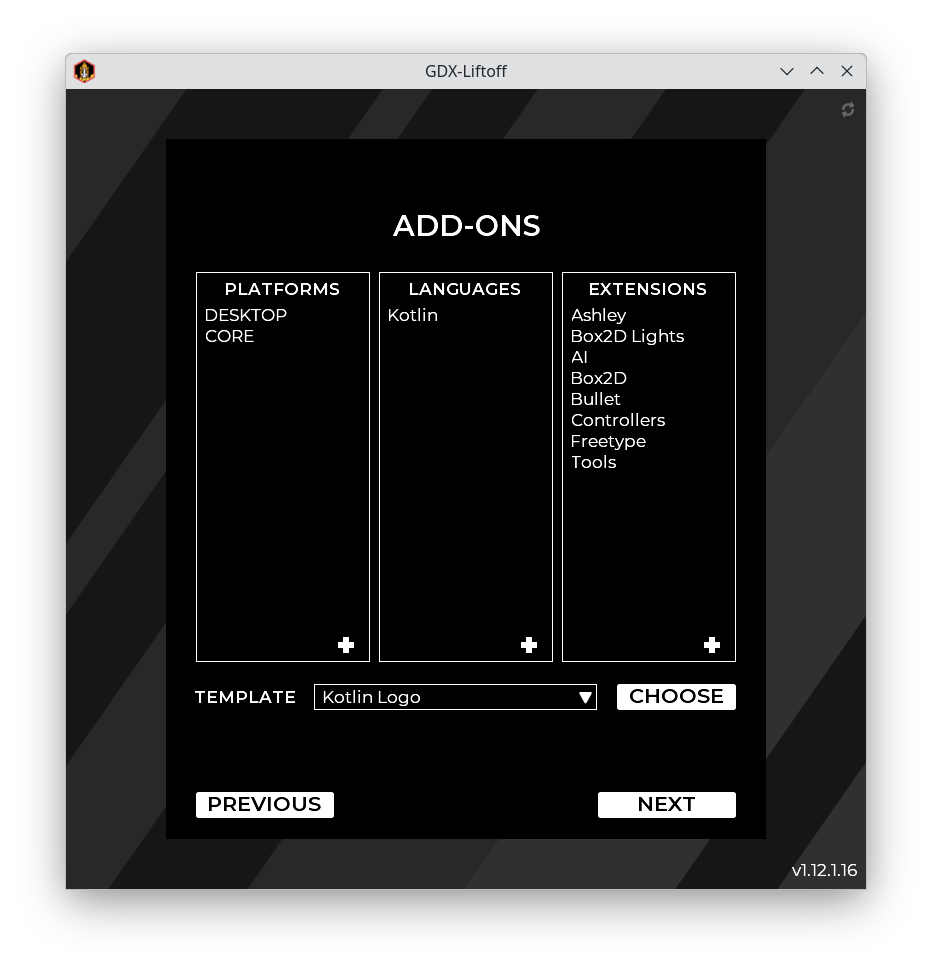
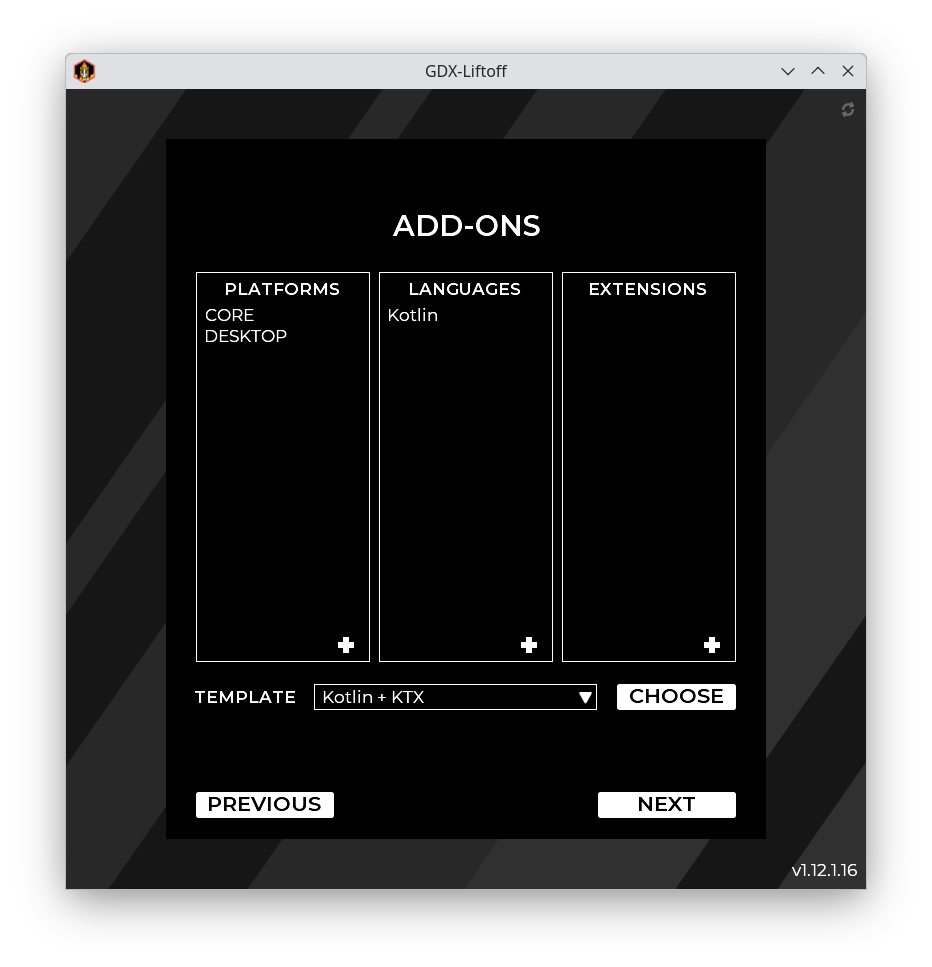
Switched to Kotlin + KTX template

diff --git a/core/src/main/kotlin/com/demoktx/game/DemoGame.kt b/core/src/main/kotlin/com/demoktx/game/DemoGame.kt
@@ -1,0 +1,38 @@
+package com.demoktx.game
+
+import com.badlogic.gdx.graphics.Texture
+import com.badlogic.gdx.graphics.Texture.TextureFilter.Linear
+import com.badlogic.gdx.graphics.g2d.SpriteBatch
+import ktx.app.KtxGame
+import ktx.app.KtxScreen
+import ktx.app.clearScreen
+import ktx.assets.disposeSafely
+import ktx.assets.toInternalFile
+import ktx.async.KtxAsync
+import ktx.graphics.use
+
+class DemoGame : KtxGame<KtxScreen>() {
+    override fun create() {
+        KtxAsync.initiate()
+
+        addScreen(FirstScreen())
+        setScreen<FirstScreen>()
+    }
+}
+
+class FirstScreen : KtxScreen {
+    private val image = Texture("logo.png".toInternalFile(), true).apply { setFilter(Linear, Linear) }
+    private val batch = SpriteBatch()
+
+    override fun render(delta: Float) {
+        clearScreen(red = 0.7f, green = 0.7f, blue = 0.7f)
+        batch.use {
+            it.draw(image, 100f, 160f)
+        }
+    }
+
+    override fun dispose() {
+        image.disposeSafely()
+        batch.disposeSafely()
+    }
+}

diff --git a/lwjgl3/src/main/kotlin/com/demoktx/game/lwjgl3/Lwjgl3Launcher.kt b/lwjgl3/src/main/kotlin/com/demoktx/game/lwjgl3/Lwjgl3Launcher.kt
@@ -1,18 +1,18 @@
 @file:JvmName("Lwjgl3Launcher")
 
-package com.simplektx.game.lwjgl3
+package com.demoktx.game.lwjgl3
 
 import com.badlogic.gdx.backends.lwjgl3.Lwjgl3Application
 import com.badlogic.gdx.backends.lwjgl3.Lwjgl3ApplicationConfiguration
-import com.simplektx.game.KtxGame
+import com.demoktx.game.DemoGame
 
 /** Launches the desktop (LWJGL3) application. */
 fun main() {
     // This handles macOS support and helps on Windows.
     if (StartupHelper.startNewJvmIfRequired())
       return
-    Lwjgl3Application(KtxGame(), Lwjgl3ApplicationConfiguration().apply {
-        setTitle("Demo Ktx Game")
+    Lwjgl3Application(DemoGame(), Lwjgl3ApplicationConfiguration().apply {
+        setTitle("DemoKtxGame")
         setWindowedMode(640, 480)
         setWindowIcon(*(arrayOf(128, 64, 32, 16).map { "libgdx$it.png" }.toTypedArray()))
     })

diff --git a/lwjgl3/src/main/kotlin/com/demoktx/game/lwjgl3/StartupHelper.kt b/lwjgl3/src/main/kotlin/com/demoktx/game/lwjgl3/StartupHelper.kt
@@ -14,7 +14,7 @@
  * limitations under the License.
  */
 //Note, the above license and copyright applies to this file only.
-package com.simplektx.game.lwjgl3
+package com.demoktx.game.lwjgl3
 
 import org.lwjgl.system.macosx.LibC
 import java.io.BufferedReader

diff --git a/wiki/Application.md b/wiki/Application.md
@@ -8,80 +8,47 @@ In this part we will improve the **Game** and **Screen** classes by using the **
 
 ***
 
-To use the [KTX app](https://github.com/libktx/ktx/blob/master/app/README.md) extension we first need to update our project's **build.gradle** file by adding a **ktxVersion** variable and a new dependency to our **core** project.
+If you open the `core/src/main/kotlin/com/demoktx/game/DemoGame.kt` file, you will see the following code:
+```Kotlin
+package com.demoktx.game
 
-**Please note that the gdxVersion and ktxVersion should match. When I wrote this tutorial I used libGDX 1.9.9 and libKTX 1.9.9-b1. As of today (2020-12-02) I recommend to use libGDX 1.9.12 and libKTX 1.9.12-b1. Refer to [KTX version](https://github.com/libktx/ktx/releases) and [LibGDX version](https://github.com/libgdx/libgdx/releases) to see the latest stable releases that you can use.**
+import com.badlogic.gdx.ApplicationAdapter
+import com.badlogic.gdx.Gdx
+import com.badlogic.gdx.graphics.GL20
+import com.badlogic.gdx.graphics.Texture
+import com.badlogic.gdx.graphics.g2d.SpriteBatch
+import com.badlogic.gdx.utils.ScreenUtils
 
-```Diff
-allprojects {
-    apply plugin: "idea"
+/** [com.badlogic.gdx.ApplicationListener] implementation shared by all platforms. */
+class DemoGame : ApplicationAdapter() {
+    private val batch by lazy { SpriteBatch() }
+    private val image by lazy { Texture("libgdx.png") }
 
-    version = '1.0'
-    ext {
-        appName = "A simple libktx game"
-        gdxVersion = '1.9.9'
-        roboVMVersion = '2.3.6'
-        box2DLightsVersion = '1.4'
-        ashleyVersion = '1.7.3'
-        aiVersion = '1.8.1'
-+        ktxVersion = '1.9.9-b1'
+    override fun render() {
+        ScreenUtils.clear(0.15f, 0.15f, 0.2f, 1f)
+        batch.begin()
+        batch.draw(image, 140f, 210f)
+        batch.end()
     }
 
-    repositories {
-        //...
-    }
-}
-// ...
-project(":core") {
-    apply plugin: "kotlin"
-
-    dependencies {
-        api "com.badlogicgames.gdx:gdx:$gdxVersion"
-        api "org.jetbrains.kotlin:kotlin-stdlib:$kotlinVersion"
-+        api "io.github.libktx:ktx-app:$ktxVersion"
+    override fun dispose() {
+        batch.dispose()
+        image.dispose()
     }
 }
 ```
-Re-sync your gradle project to be able to use the new **KTX app** extensions.
 
-***
-
-As mentioned in the [LibGDX Extending the Simple Game](https://github.com/libgdx/libgdx/wiki/Extending-the-simple-game) wikipedia page it is a good practice to use the **Game** and **Screen** class.
+As mentioned in the [LibGDX Extending the Simple Game](https://libgdx.com/wiki/start/simple-game-extended) wiki page it is a good practice to use the **Game** and **Screen** classes.
 I think everyone who used these classes before knows that you will need to write your own _ScreenCache_ or something similar to avoid creating new screens all the time and to remember the old status of your screen when switching between them. <br>
 The second thing is that you always had to manually take care of **disposing** screens and usually you anyway want to do that when your game's `dispose()` method is called.
 
 What a coincidence but LibKTX will take care of that for us with its [KtxGame](https://github.com/libktx/ktx/blob/master/app/src/main/kotlin/ktx/app/game.kt) implementation! It will have an internal _ScreenCache_ and it will automatically dispose all screens when dispose is called.
 
-Therefore our main game class will extend **KtxGame<KtxScreen>**. It has two optional parameters:
-```Kotlin
-open class KtxGame<ScreenType : Screen>(firstScreen: ScreenType? = null, private val clearScreen: Boolean = true) : KtxApplicationAdapter {
-/** Holds references to all screens registered with [addScreen]. Allows to get a reference of the screen instance
-   * knowing only its type. */
-  protected val screens: ObjectMap<Class<out ScreenType>, ScreenType> = ObjectMap()
-  /** Currently shown screen. Unless overridden with [setScreen], uses an empty mock-up implementation to work around
-   * nullability and `lateinit` issues. [shownScreen] is a public property exposing this value as [ScreenType].
-   * @see shownScreen */
-  protected var currentScreen: Screen = firstScreen ?: emptyScreen()
-  // ...
-}
-```
+Therefore, our main game class will extend **KtxGame<KtxScreen>**. It has two optional parameters:
+
 1. **firstScreen**: This will define the initial screen when starting up your game. Since our first screen will require some additional information we cannot pass it immediatly and therefore we don't specify it.<br>
 In this case it will use the **emptyScreen()** implementation from LibKTX which is a **KtxScreen** implementation which overrides all **Screen** methods with an empty body
 2. **clearScreen**: default is **true** which means that at the beginning of the **render** method KtxGame will automatically clear the screen before calling the screen's render method. In my opinion this is a desired behavior for almost every game and it is nice that LibKTX takes care of that for us automatically.<br>
-
-    ```Kotlin
-    override fun render() {
-        if (clearScreen) {
-          clearScreen(0f, 0f, 0f, 1f)
-        }
-        currentScreen.render(Gdx.graphics.deltaTime)
-    }
-
-    inline fun clearScreen(red: Float, green: Float, blue: Float, alpha: Float = 1f) {
-        Gdx.gl.glClearColor(red, green, blue, alpha)
-        Gdx.gl.glClear(GL20.GL_COLOR_BUFFER_BIT)
-    }
-    ```
 
 ***
 

diff --git a/wiki/Setup.md b/wiki/Setup.md
@@ -9,7 +9,7 @@ The version that I use while writing this page is 2019.2 with LibGDX 1.9.10 and 
 **Update as of 2020-12-02:** updated codebase to LibGDX 1.9.12 and LibKTX 1.9.12-b1.
 
 To start it off download the latest version of [LibGDX Liftoff Jar](https://github.com/libgdx/gdx-liftoff/releases) and run it.
-Fill in the project name and optionally change the package and main class name. The click on "PROJECT OPTIONS" 
+Fill in the project name and optionally change the package and main class name. Then click on "PROJECT OPTIONS" 
 
 ![Home](./images/gdx-liftoff-home.png)
 
@@ -17,11 +17,11 @@ Make sure to have "Kotlin" listed in the "LANGUAGES" column. If not, add it usin
 
 ![Addons](./images/gdx-liftoff-addons.png)
 
-Then click on "Choose" to select a template. Pick the "Kotlin logo" template and click on the "OK" button.
+Then click on "Choose" to select a template. Pick the "Kotlin + KTX" template and click on the "OK" button.
 
 ![Template](./images/gdx-liftoff-templates.png)
 
-This should be the end result for the "ADD-ONS"	window:
+This should be the end result for the "ADD-ONS" window, it doesn't metter if you selected some extensions or not:
 
 ![Addons final](./images/gdx-liftoff-addons-final.png)
 
@@ -39,26 +39,13 @@ You can now close gdx-liftoff and open your project inside IntelliJ.
 
 Inside IntelliJ, open the "Gradle" tab on the left, go to Lwjgl3 > tasks > application and double click on "run".
 
-***
+![Run](./images/gradle-run.png)
 
-Most likely your IDE will mention some warnings about deprecations and other stuff. Just ignore them. The reason is that LibGDX tries to support all important IDEs including eclipse and it also tries to stay compatible with older devices/versions of android/IOS and therefore those warnings are to be expected.
+If everything went fine, you'll see the LibKTX logo:
 
-***
-
-Convert your **DesktopLauncher** and **Game** class to Kotlin, add `lateinit` to the batch and img variable in your **Game** class and setup a run configuration. If everything works you should see the usual empty libgdx game window with the bad logic texture and a red background.
-
-```kotlin
-class Game : ApplicationAdapter() {
-    lateinit internal var batch: SpriteBatch
-    lateinit internal var img: Texture
-```
-
-![Convert](https://www.dropbox.com/s/uk7gzb06y5ep91q/convert.png?raw=1)
-![Create run configuration](https://www.dropbox.com/s/1dxp886km2tka1p/run.png?raw=1)
-![Update configuration](https://user-images.githubusercontent.com/93260/100916874-a7ee7380-34d6-11eb-98ee-d31a452b02dc.png)
-![Empty game screen](https://www.dropbox.com/s/rlhe6h20m7da8co/empty-game.png?raw=1)
-
+![Logo](./images/libktx-logo.png)
 # Known issues
+This section may no longer be applicable, as this wiki transitioned to the new `gdex-liftoff` tool. It is still here in case it might help someone.
 
 In case you receive a "Could not load main class" error then don't be frustrated. This is a very common problem that a lot of people face out there. To save you the time of googling hours for a solution, here it is:
 - Go to the build.gradle file of your desktop project
@@ -74,5 +61,3 @@ In case you receive a "Could not load main class" error then don't be frustrated
     ```
 - Refresh your gradle project
 - Try it again. It should work now
-
-In my opinion the official LibGDX setup is not creating very good gradle files. As an alternative you can use [gdx-liftoff](https://github.com/tommyettinger/gdx-liftoff). It creates more modern gradle files which are causing less issues at least on my end.

diff --git a/README.md b/README.md
@@ -1,8 +1,8 @@
-# Demo Ktx Game
+# DemoKtxGame
 
 A [libGDX](https://libgdx.com/) project generated with [gdx-liftoff](https://github.com/libgdx/gdx-liftoff).
 
-This project was generated with a template that includes Kotlin application launchers and draws the libGDX logo within the application listener.
+This project was generated with a Kotlin project template that includes Kotlin application launchers and [KTX](https://libktx.github.io/) utilities.
 
 ## Platforms
 
